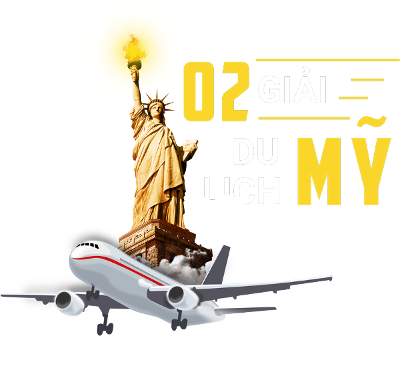
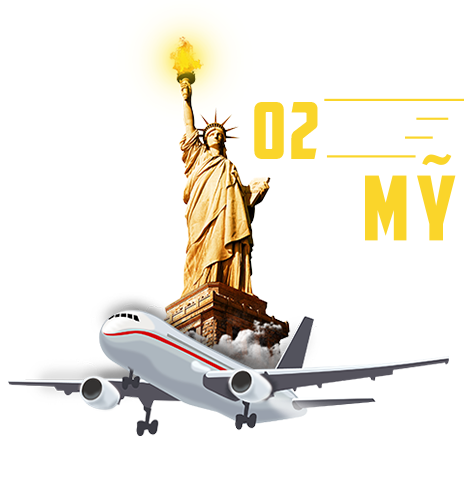
Update KV

Changed region(s): [[0.0, 0.0308, 0.99, 0.8923], [0.63, 0.1231, 1.0, 0.1538], [0.57, 0.4615, 0.6, 0.4923]]

diff --git a/static/css/master.less b/static/css/master.less
@@ -143,37 +143,45 @@
 } //css lg 
 @media (max-width:1199px) and (min-width:992px) {
     body {
-        .lx2 .fa17 .fa19 {
-            margin-bottom: 30px;
-        }
-        .lx2 .fa17 .fa19 p {
-            font-size: 30px;
-        }
-        .lx2 .fa2 .fa11 {
-            margin-bottom: 5px;
-            p {
-                font-size: 30px;
+        .lx2 {
+            .fa17 .fa19 {
+                margin-bottom: 30px;
+                p {
+                    font-size: 30px;
+                }
             }
-        }
-        .lx2 .fa25 .fa26 .fa27 {
-            padding-top: 176px;
-        }
-        .lx2 .fa17 .fa23 {
-            padding-top: 12px;
-        }
-        .lx2 .fa17 .fa22 {
-            height: 100px;
-        }
-        .lx2 .fa17 .fa20,
-        .lx2 .fa17 .fa21 {
-            height: 280px;
-        }
-        .lx2 .fa1 .fa3 .fa6 {
-            width: 140%;
-        }
-        .lx2 .fa2 .fa16 {
-            &:nth-child(4) {
-                display: block;
+            .fa2 .fa11 {
+                margin-bottom: 5px;
+                p {
+                    font-size: 30px;
+                }
+            }
+            .fa25 .fa26 .fa27 {
+                padding-top: 176px;
+            }
+            .fa17 {
+                .fa23 {
+                    padding-top: 12px;
+
+                }
+                .fa22 {
+                    height: 100px;
+                }
+                .fa21,
+                .fa20 {
+                    height: 280px;
+                }
+            }s
+            .fa1 .fa3 .fa6 {
+                width: 103%;
+            }
+            .fa2 .fa16 {
+                &:nth-child(4) {
+                    display: block;
+                }
+            }
+            .fa1 .fa3 .fa42 .fa44 {
+                padding-top: 239px;
             }
         }
     }
@@ -202,6 +210,11 @@
         }
     }
     .fa2 {
+        .activex {
+            a {
+                color: @vang!important;
+            }
+        }
         color: @trang;
         ul {
             display: inline-flex;
@@ -236,9 +249,6 @@
         background-size: cover;
         background-repeat: no-repeat;
         .fa3 {
-            background-color: rgba(27, 22, 23, 0.5);
-            height: 100%;
-            width: 100%;
             .fa4 {
                 .fonta(16px);
                 color: @trang;
@@ -252,29 +262,28 @@
                 margin: 0 0 10px;
             }
             .fa6 {
-                padding: 35px 0 40px;
-                margin-left: -160px;
-                width: 160%;
+                padding: 12px 0 40px;
+                width: 100%;
+                position: absolute;
+                right: -22%;
             }
             .fa7 {
                 margin-left: -22px;
                 padding-top: 100px;
                 img {
-                    width: 66%;
                     margin-left: -66px;
                 }
             }
             .fa8 {
                 width: 100%;
                 height: 50px;
-                background-color: @vang;
-                margin-top: 10px;
-                padding-top: 10px;
+                margin-top: 20px;
                 a {
                     color: @den;
                     .fonta(16px);
                     text-transform: uppercase;
-
+                    background-color: @vang;
+                    padding: 10px 20px;
                     &:hover {
                         text-decoration: none;
                         cursor: pointer;
@@ -297,6 +306,29 @@
             }
             .fa9 {
                 padding-top: 50px;
+            }
+            .fa41 {
+                img {
+                    height: 100%;
+                }
+            }
+            .fa42 {
+                background-color: #1b1516;
+                position: relative;
+                .fa43 {
+                    width: 100%;
+                    height: 100%;
+                    position: absolute;
+                    right: -99%;
+                    background-color: #1b1516;
+                }
+                .fa44 {
+                    padding-top: 284px;
+                    img {
+                        width: 107%;
+                        margin-left: -23px;
+                    }
+                }
             }
         }
     } // Start body Two

diff --git a/index.html b/index.html
@@ -36,7 +36,7 @@
                         <div id='cssmenu' class="fa2">
                             <ul>
                                 <li><a href='http://quattranmy.com'>Sản Phẩm</a></li>
-                                <li class='active'><a href='#'>Khuyến Mãi</a></li>
+                                <li class='activex'><a href='#'>Khuyến Mãi</a></li>
                                 <li><a href='#'>Tin Tức</a></li>
                                 <li><a href='#'>Hỏi Đáp</a></li>
                             </ul>
@@ -59,16 +59,21 @@
                 <div class="fa3">
                     <div class="container">
                         <div class="row">
-                            <div class="col-md-8 col-sm-10 fa7">
+                            <div class="col-md-5 col-sm-10 fa7">
                                 <img src="static/img/kv2.png" alt="">
                             </div>
-                            <div class="col-md-4 col-sm-10">
+                            <div class="col-1 fa41">
+                                <img src="static/img/hline.png" alt="">
+                            </div>
+                            <div class="col-md-6 col-sm-10 fa42">
+                               <div class="fa43"></div>
                                 <img class="fa6" src="/static/img/lugano.png" alt="">
-                                
-                                
+                                <div class="fa44">
+                                    <img src="static/img/kv22.png" alt="">
+                                </div>
                                 <div class="fa9">
-                                <p class="fa4 text-right">Quay thưởng lần kế tiếp</p>
-                                <p class="fa5 text-right">
+                                <p class="fa4 text-center">Quay thưởng lần kế tiếp</p>
+                                <p class="fa5 text-center">
                                     10/06/2018
                                 </p>
                                 <div class="fa8 text-center">
